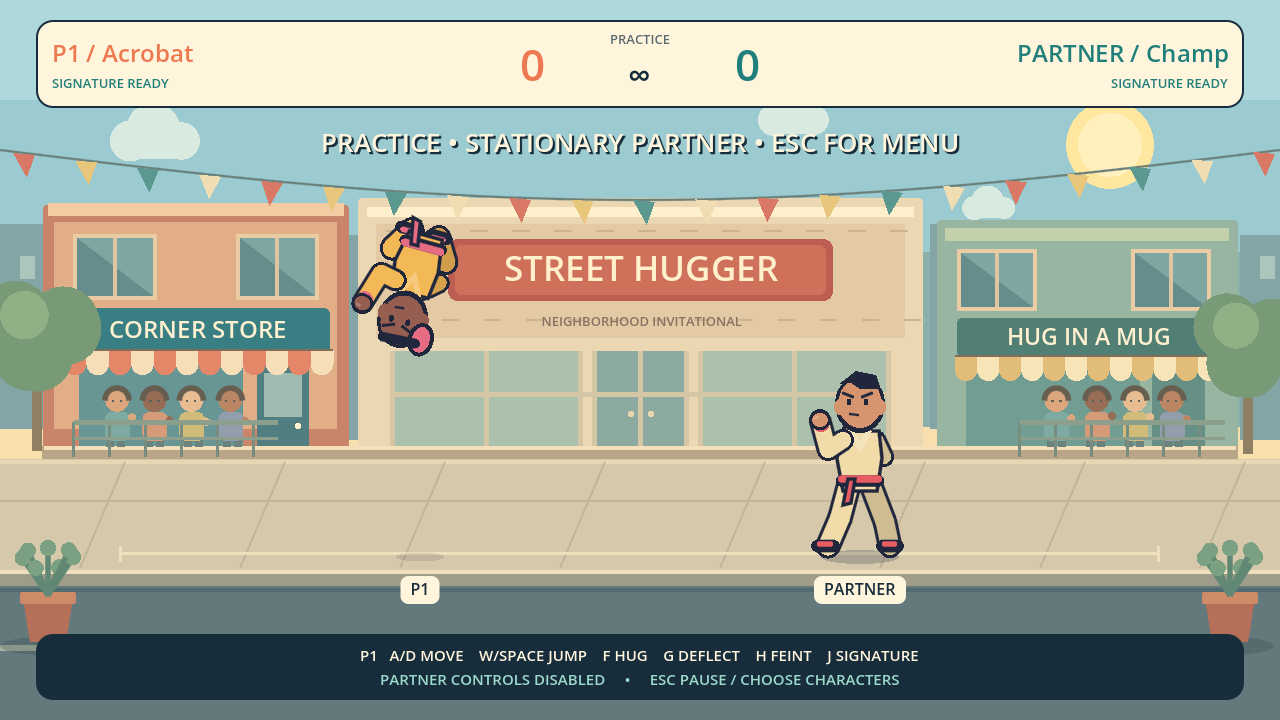
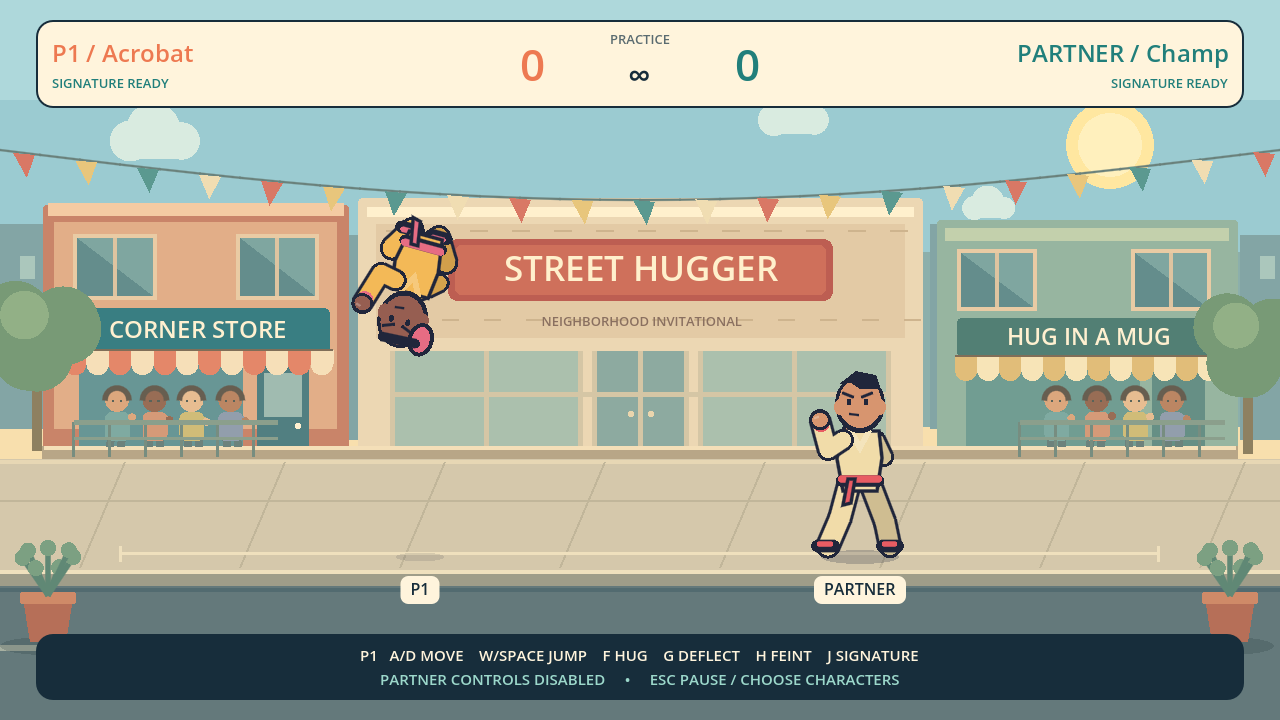
Remove slogan filler and document purposeful UI copy

Changed region(s): [[0.25, 0.1833, 0.75, 0.2139]]

diff --git a/docs/UI_COPY.md b/docs/UI_COPY.md
@@ -1,0 +1,31 @@
+# UI copy review
+
+The recurring failure here was slogan filler: balanced, punchy phrases standing in for useful information. The surface may resemble a brand voice or a tutorial, but the player learns little. This is an editorial description, not a formal technical term or proof that a particular sentence was generated by an LLM.
+
+The project should spend attention on controls, decisions, state, feedback, and concrete character/world details. Empty space needs no justification.
+
+| Before | Change | Reason |
+| --- | --- | --- |
+| READ • BAIT • EMBRACE | Remove | Does not identify an action, timing cue, or event; repeats indefinitely |
+| Land a hug. Read the reply. Run it back. | Remove | Restates the desired experience as a generic slogan |
+| STEP INTO THE STREET | Play | Makes the button's result explicit |
+| TAKE A BREATHER | Paused | Identifies the current state |
+| WHIFF! CHECK RANGE AND HEIGHT | Out of reach / Facing away / Too high / Too low | Reports the failed contact condition |
+| MUTUAL! TOO WHOLESOME TO CALL | Mutual hug (no point) | Explains why the score did not change |
+| Learn the spacing, then own it | Steps forward before hugging | Describes a character's implemented move |
+| HUG IN A MUG | Keep | Names a specific cafe in the world; the user likes it |
+
+## Procedure for future work
+
+1. Identify the player's question at this point. Examples: what button starts a match, why did that hug miss, which fighter do these keys control?
+2. Decide whether text is needed. Animation, layout, feedback, or leaving space empty may be sufficient.
+3. If text is needed, write the smallest accurate answer. Ground it in the implemented rule or current event.
+4. Put optional instruction where the player can use it. Do not continually display vague strategy advice during a match.
+5. Review all new strings together, outside the code. Remove repeated information, generic encouragement, unnecessary flavor captions, and descriptions interchangeable with another game's marketing.
+6. Inspect the result in context. Brevity that hides a necessary rule is also a failure.
+
+Punctuation, three-item lists, puns, and enthusiasm are not intrinsically bad. The test is whether the content earns the player's attention. Character-specific jokes, shop names, and a memorable reaction to a real event can belong; a slogan added because a panel has room does not.
+
+## Useful instruction still missing
+
+The menu contains literal controls and a brief rule summary. A proper interactive introduction should later let the player land a hug, miss at the edge of range, deflect a telegraphed attempt, bait an early deflect, and jump over a hug. Teach one action at a time with observable results. A rotating list of slogans is not a substitute for that work.

diff --git a/AGENTS.md b/AGENTS.md
@@ -1,0 +1,24 @@
+# Project instructions
+
+## User-facing writing
+
+The user explicitly dislikes generic slogan filler in LLM-authored products. Treat this as an editing principle, not a blacklist of words or punctuation.
+
+- Leave idle HUD/status space empty. Show temporary feedback for actual events, outcomes, or failures.
+- UI labels should identify an action or state. Instructions should explain an executable action, relevant rule, or observed cause.
+- Do not add motivational taglines, symmetrical verb triplets, theme puns in routine menus, or generic descriptions of the intended experience just to fill space.
+- Prefer Play, Paused, Rematch, and a specific miss reason over themed substitutes or generalized encouragement.
+- Preserve original shop names, character identities, distinctive animation, and other concrete worldbuilding. The user likes the shop names. This is not a request for a humorless game.
+- Character descriptions should distinguish implemented behavior. Do not imply abilities that the current code does not support.
+- Before adding copy, ask: what does the player learn or do because this text exists? If nothing, omit it. Flavor needs a specific place, character, or event that earns it.
+- Review copy by itself after implementation. Deletion is a valid outcome; do not automatically replace removed filler with different filler.
+
+See docs/UI_COPY.md for examples and the review procedure.
+
+## Existing constraints
+
+- Godot project name: 013-street-hugger.
+- Do not add a project license.
+- Keep code, characters, and art original; do not copy recognizable franchise designs or assets.
+- Keep image-generation use deliberate and limited; the prototype uses procedural art.
+- Give the user specific playtests when gameplay changes need their feedback.
